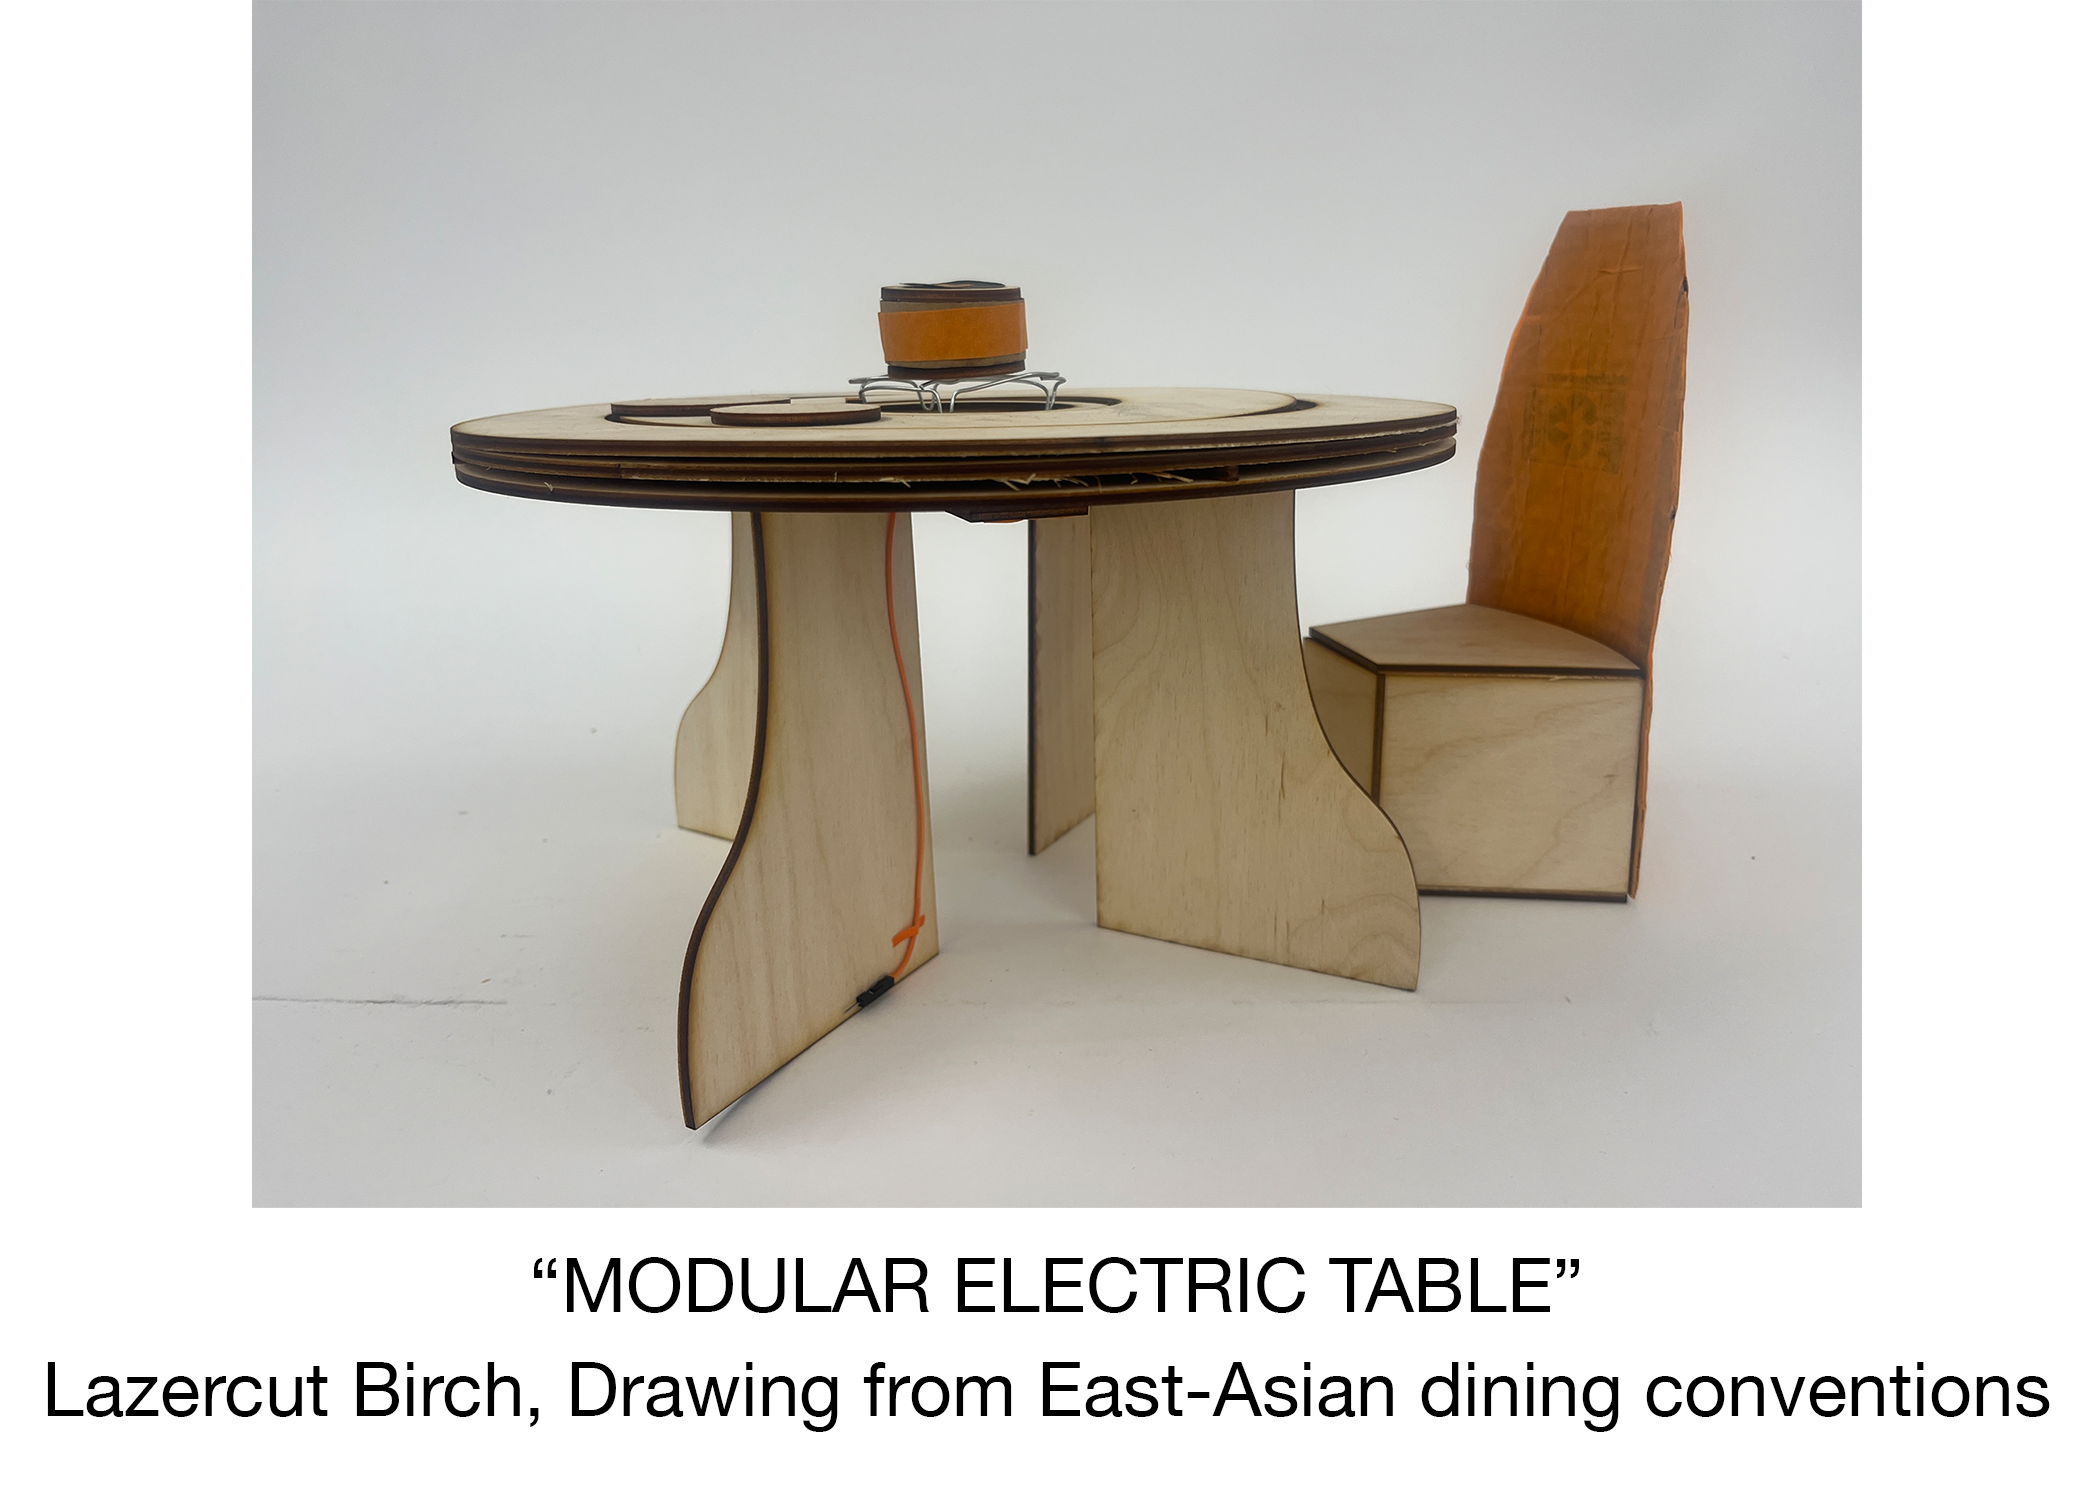
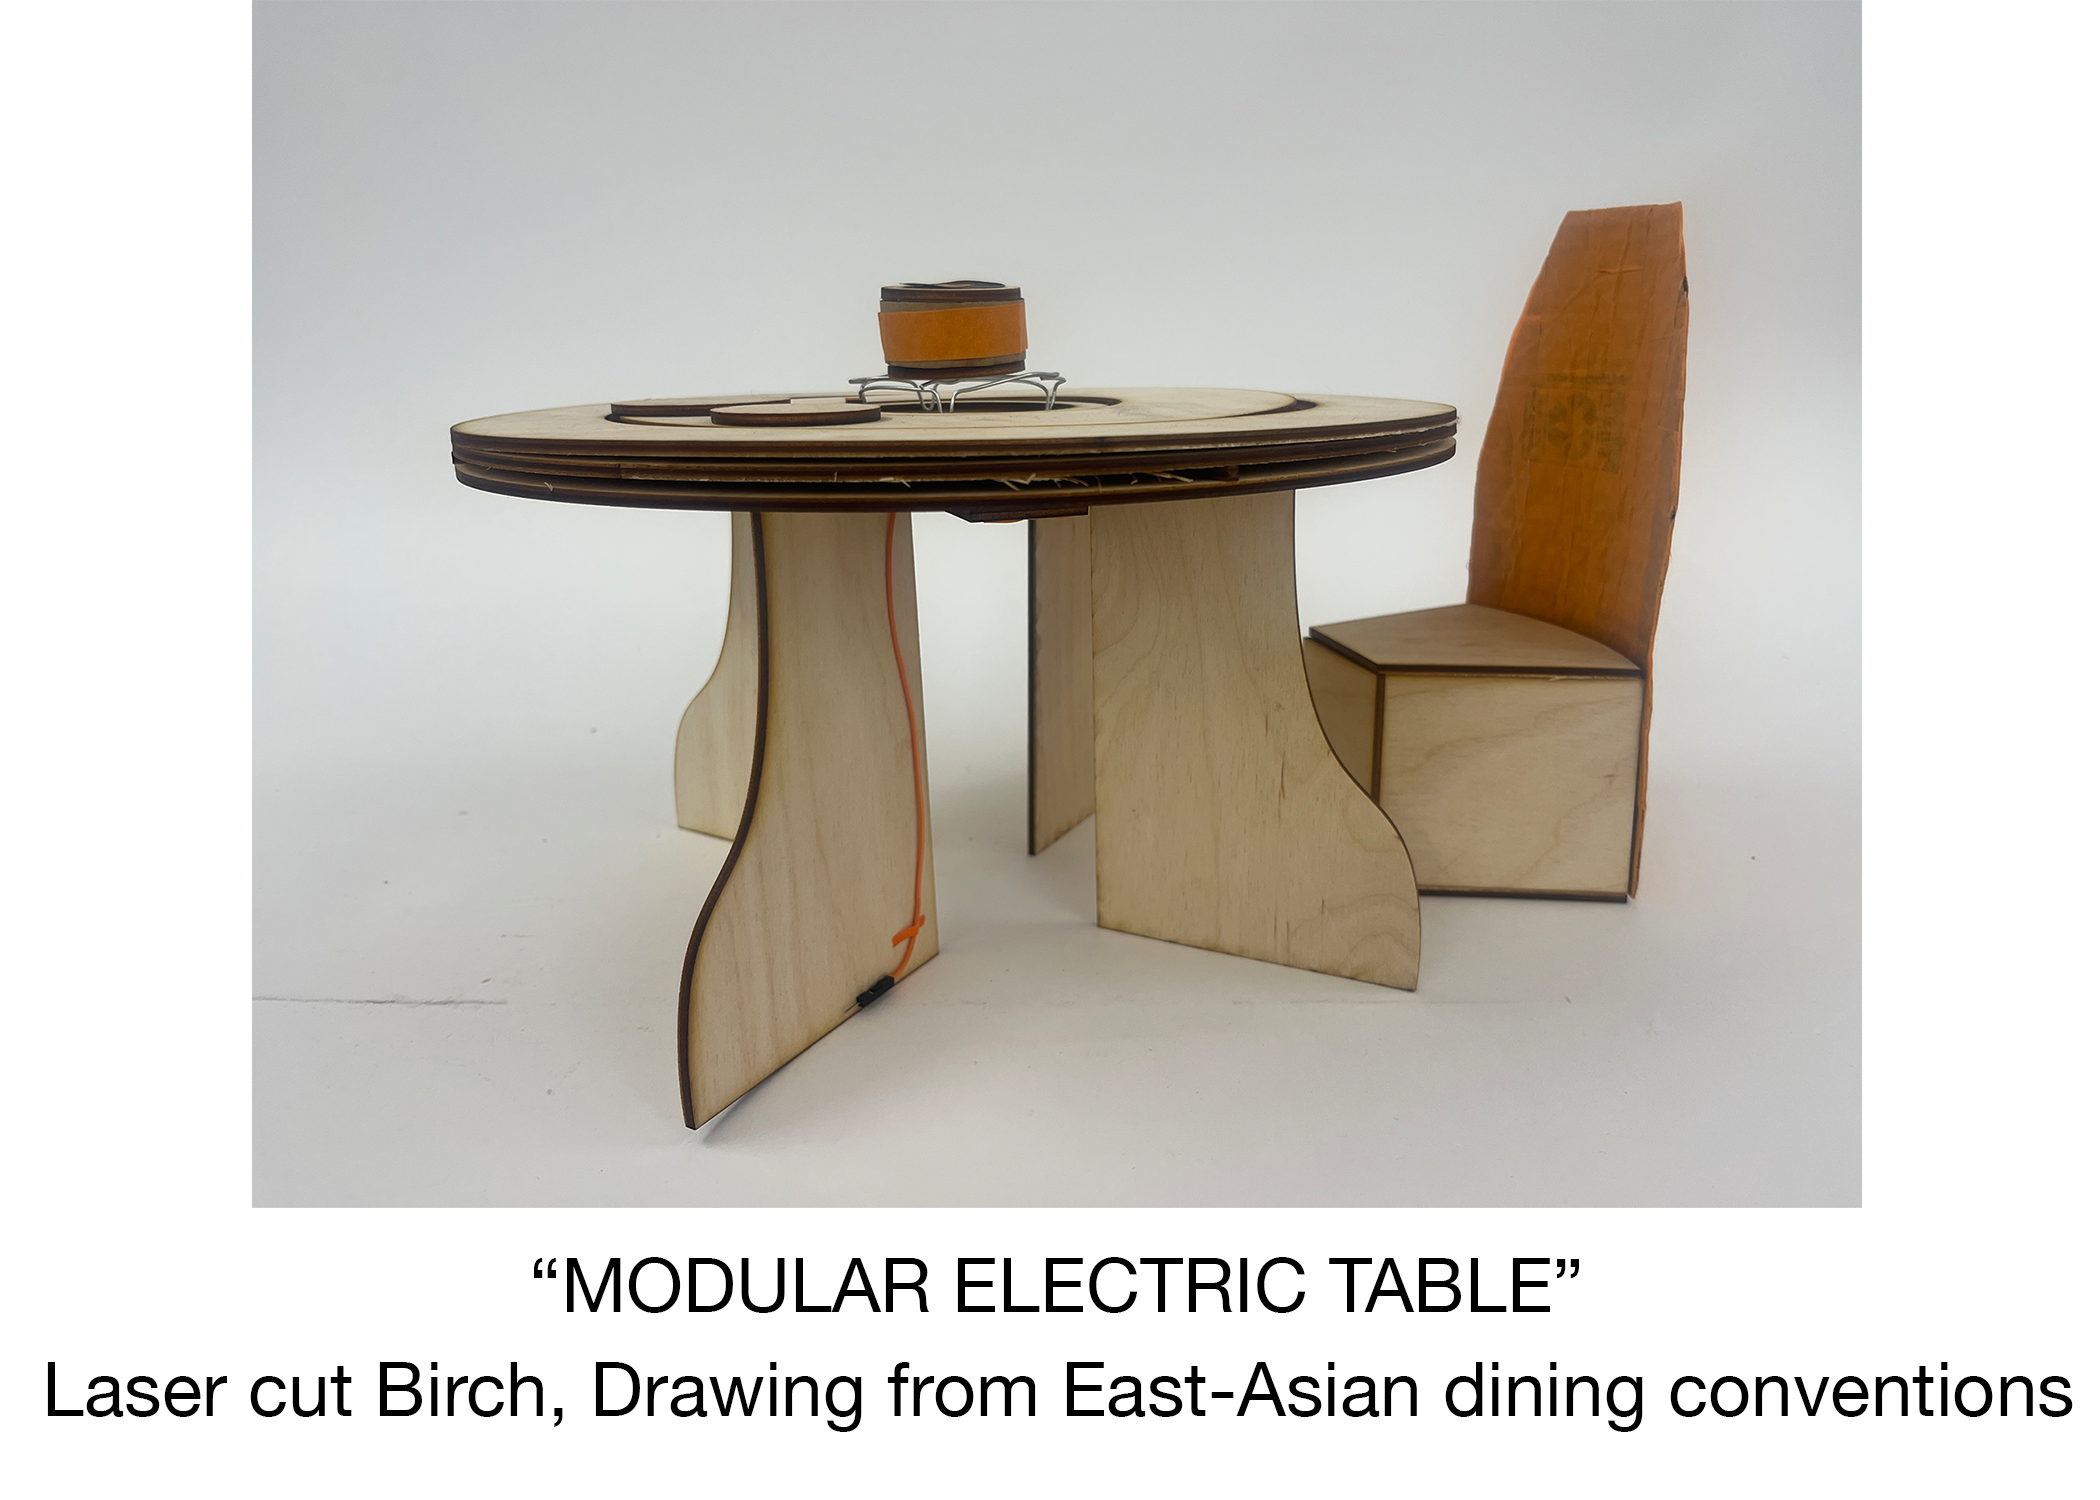
spelling fixes

Changed region(s): [[0.0619, 0.8893, 0.9905, 0.9507]]

diff --git a/about.html b/about.html
@@ -30,7 +30,7 @@
       </div>
       <div class="col-lg-6">
         <h1 class="display-5 fw-bold lh-1 mb-3">Student, Artist, Designer</h1>
-        <p class="lead"> I am currently a sophmore at NYU studying <a href="https://engineering.nyu.edu/academics/programs/integrated-design-media-bs">Integrated Design and Media</a>  originally from San Francisco. I have been enthusiastic about making things for as long as I can remember from biulding my childhood loftbed to now knitting my winter accecories. I have experience in a broad range of digital and analog mediums including silkscreen, handbuilt ceramics, illustrator, and photoshop. I am currently influenced by ecology and fermentation, Japanese Shinto philosophy, and math visualization to name a few! Check out my work to see more </p>
+        <p class="lead"> I am currently a sophmore at NYU studying <a href="https://engineering.nyu.edu/academics/programs/integrated-design-media-bs">Integrated Design and Media</a>  originally from San Francisco. I have been enthusiastic about making things for as long as I can remember from building my childhood loftbed to now knitting my winter accessories. I have experience in a broad range of digital and analog mediums including silkscreen, handbuilt ceramics, illustrator, and photoshop. I am currently influenced by ecology and fermentation, Japanese Shinto philosophy, and math visualization to name a few! Check out my work to see more </p>
       </div>
     </div>
   </div>

diff --git a/cellularSounds.html b/cellularSounds.html
@@ -37,7 +37,7 @@
                 <div class="px-4 py-5 my-5 text-center">   
                  <div id="cellularSoundsCanvas" ></div>
                     <div class="col-lg-6 mx-auto">
-                      <p class="lead mb-4">Move the mouse around the canvas to jently push the cells away. This piece has sound. Turn on the volume. Click <a href="https://openprocessing.org/sketch/2220589">here</a> to see the source code.</p>
+                      <p class="lead mb-4">Move the mouse around the canvas to gently push the cells away. This piece has sound. Turn on the volume. Click <a href="https://openprocessing.org/sketch/2220589">here</a> to see the source code.</p>
                       <div class="d-grid gap-2 d-sm-flex justify-content-sm-center">
                         
                       </div>
